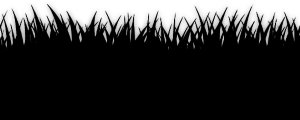
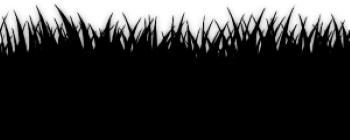
Rain + glow particle systems implemented
player walk cycle bug fixed

assets for first level present implemented, no past in yet

Changed region(s): [[0.0, 0.025, 1.0, 0.4], [0.63, 0.075, 0.66, 0.125]]

diff --git a/js/States/DepressionLevel.js b/js/States/DepressionLevel.js
@@ -1,4 +1,6 @@
-var player; var grass;
+var player; 
+var grass; 
+
 var DepressionLevel = function() { 
 	// platforms group
 	var platforms;
@@ -33,70 +35,33 @@ DepressionLevel.prototype = {
         );
 
         //LEVEL ELEMENTS
-        var car = this.game.add.sprite(-100, game.world.height - 210, 'levelOneSprites', 'Night_Car');
+        var car = this.game.add.sprite(-100, game.world.height - 230, 'levelOneSprites', 'Night_Car');
 
         var house = this.game.add.sprite(game.world.width - 393, 0, 'levelOneSprites', 'Night_House');
+
+        //Tree with swing 
+        var tree = this.game.add.sprite(100, 0, 'levelOneSprites', 'Night_Swing');
+
+        //mailbox
+        addGlow(700, game.world.height - 130, 50, 350, true);
+        var mailbox = this.game.add.sprite(650, game.world.height - 350, 'Night_Mailbox');
+        addGlow(700, game.world.height - 130, 50, 350, false);
 
         //PLAYER
         player = new Player(game, 100, 100); 
         game.add.existing(player);
-        console.log(player);
 
-        grass = this.game.add.tileSprite(0, game.world.height - 120, game.world.width, 120, 
-            'levelOneSprites', 'Night_Grass');
+        //grass
+        grass = this.game.add.tileSprite(0, game.world.height - 140, game.world.width, 140, 'Night_Grass');
     	game.physics.arcade.enable(grass);
-    	//grass.enableBody = true;
 		grass.body.immovable = true; 
     	grass.body.setSize(grass.body.width, grass.body.height - 10, 0, 50);
 
-		// // player physics properties
-		// player = game.add.sprite(this.playerX, this.playerY, 'player_animation');
-		// player.anchor.x = 0.5;
-		// player.scale.x = this.facing;
-		// game.physics.arcade.enable(player);
-		// player.body.gravity.y = 600;
-		// // player.body.collideWorldBounds = true;
-		// player.animations.add('stand', [8], 6, true);
-		// player.animations.add('walk', [0, 1, 2, 3, 4, 5, 6, 7], 6, true);
-		// player.animations.add('jump', [9], 12, true);
-		// 		console.log(player.body.width + " " + player.body.height);
-		// player.body.setSize(45, 266, 65, 0);
-    
-	 //    // create platforms group
-  //       platforms = game.add.group();
-  //       platforms.enableBody = true;
-
-	 //    // create the ground
-	 //    ground = platforms.create(0, game.world.height - 76, 'grass_ground_sepia');
-		// ground.body.immovable = true; 
-		// ground.body.setSize(ground.body.width, ground.body.height - 10, 0, 50);
-
-		// //this is just to fill in the gap btwn the ledge and the ground
-	 //  	ledge = platforms.create(300, 250, 'grass_platform_sepia');
-		// ledge.body.immovable = true;
-		// ledge.angle = 5;
-		// ledge.body.setSize(ledge.body.width, ledge.body.height - 10, 50, 50);
-
-	 //    // create ledge
-	 //  	ledge = platforms.create(300, 150, 'grass_platform_sepia');
-		// ledge.body.immovable = true;
-		// ledge.body.setSize(ledge.body.width, ledge.body.height - 10, 50, 50);
-
-	 //    rock = game.add.sprite(500, 100, 'rock_sepia');
-	 //    rock.enableBody = true;
+    	//rain
+    	addRain();
 
 	 //    // create fade in rect
 	 //    fadeInRect = game.add.sprite(0, 0, 'fade_in');
-
-	 //    // play standing animation
-	 //    player.animations.play('stand');
-
-	    //game.physics.arcade.enable(rock);
-	    //rock.body.bounce.y =0.2;
-
-	    //rock.body.gravity.y =1000;
-	   //rock.body.immovable = true;
-	    //rock.body.collideWorldBounds = true;
 
     },
 
@@ -131,44 +96,5 @@ DepressionLevel.prototype = {
   //       this.playerY = player.y;
   //       this.facing = player.scale.x;
 
-  //       //-----------TEMPORARY CONTROLS---------------------//
-	 //    // set player velocity
-	 //    player.body.velocity.x = 0;
-
-	 //    game.physics.arcade.collide(rock, platforms);
-	 //    game.physics.arcade.collide(rock, player);
-
-	 //    if (game.input.keyboard.isDown(Phaser.Keyboard.LEFT)) // move left
-	 //    {
-	 //        player.body.velocity.x = -100;
-	 //        player.animations.play('walk');
-	 //        player.scale.x = -1;
-	 //    }
-
-	 // 	else if (game.input.keyboard.isDown(Phaser.Keyboard.RIGHT)) // move right
-	 //    {
-	 //        player.body.velocity.x = 100;
-	 //       	player.animations.play('walk');
-	 //       	player.scale.x = 1;
-	 //    }
-
-	 //    else
-	 //    {
-	 //    	player.animations.play('stand'); // stand
-	 //    }
-	    
-	 //    if (game.input.keyboard.isDown(Phaser.Keyboard.UP) && player.body.touching.down) // jump if player is touching the ground
-	 //    {
-	 //        player.body.velocity.y =  -450;
-		// }
-
-	 //    if (!player.body.touching.down) // player jump animation
-	 //    {
-	 //    	player.animations.play('jump');
-	 //    }
-
-
-
-	    //------------------------------------------------//
     }
 }

diff --git a/js/Functions/Rain.js b/js/Functions/Rain.js
@@ -1,0 +1,37 @@
+//from: https://www.joshmorony.com/how-to-add-weather-effects-in-phaser-games/
+
+function addRain() {
+
+        let rainParticle = this.game.add.bitmapData(15, 110);
+
+        rainParticle.ctx.rect(0, 0, 15, 110);
+        rainParticle.ctx.fillStyle = '#9cc9de';
+        rainParticle.ctx.fill();
+
+        this.emitter = this.game.add.emitter(this.game.world.centerX-130, -300, 400);
+
+        this.emitter.width = this.game.world.width;
+        let area = new Phaser.Rectangle(0, 0, game.world.width, 100); //from nathan bless
+		this.emitter.area = area;
+
+
+        this.emitter.makeParticles(rainParticle);
+        this.emitter.angle = 10;
+        this.emitter.alpha = .3; 
+
+        this.emitter.minParticleScale = 0.2;
+        this.emitter.maxParticleScale = 0.3;
+
+        this.emitter.setYSpeed(2000, 2000);
+        this.emitter.setXSpeed(-5, -5);
+
+        this.emitter.minRotation = 0;
+        this.emitter.maxRotation = 0;
+
+        this.emitter.start(false, 330, 5, 0);
+
+}
+
+function removeRain() {
+        this.emitter.kill();
+}

diff --git a/js/Functions/Glow.js b/js/Functions/Glow.js
@@ -1,0 +1,30 @@
+//define spawn rectangle and if the glow is behind or in front of the object
+function addGlow(x, y, width, height, behind) {
+
+    emitter = game.add.emitter(game.world.centerX, 500, 200);
+
+    emitter.makeParticles('corona');
+
+
+        this.emitter = this.game.add.emitter(x, y);
+
+        let area = new Phaser.Rectangle(x, y, width, height); //from nathan bless
+        this.emitter.area = area;
+
+        this.emitter.makeParticles('corona');
+        this.emitter.setAlpha(0.5, 0, 500); //min, max, how long to go from min --> max 
+        this.emitter.setScale(1, .2, 1, .2, 100); //min x, max x, min / max y,, rate min --> max
+
+        emitter.gravity = -50;
+
+        this.emitter.minRotation = 0;
+        this.emitter.maxRotation = 0;
+
+        if (behind)
+                this.emitter.start(false, 600, 500);
+        else {
+                this.emitter.setAlpha(0.3, 0, 500);
+                this.emitter.setScale(0.3, .1, 0.3, 0.1, 100);
+                this.emitter.start(false, 600, 500)
+        }
+}

diff --git a/js/Prefab/Player.js b/js/Prefab/Player.js
@@ -24,17 +24,17 @@ Player.prototype.update = function() {
 
     cursors = game.input.keyboard.createCursorKeys();//to make the player move by using keyboard
 
-    console.log("hahaha");
     //---------MOVEMENT----------------//
     player.body.velocity.x = 0;
     //block.body.velocity.x = 0;
     if (cursors.left.isDown){//move to left
         player.body.velocity.x = -150;
         player.animations.play('walk');
+        console.log(player);
         player.scale.x = -1;
     }
 
-    if (cursors.right.isDown){
+    else if (cursors.right.isDown){
         player.body.velocity.x =150;//move to right
         player.animations.play('walk');
         player.scale.x = 1;

diff --git a/js/States/Load.js b/js/States/Load.js
@@ -10,6 +10,12 @@ Load.prototype= {
         //background
         game.load.atlasJSONHash('levelOneSprites', 'assets/img/LevelOne.png','assets/img/LevelOne.json');
 
+        //fixed sizing issues, add to atlas later
+        game.load.image('Night_Grass' , 'assets/img/new/Night_Grass.png');
+        game.load.image('Night_Mailbox' , 'assets/img/new/Night_Mailbox.png');
+        
+        //Temp 
+        game.load.image('corona', 'assets/img/temp/blue.png');
 		game.load.image('fade_in', 'assets/img/temp/fade_in.png');
 		switchKey = game.input.keyboard.addKey(Phaser.Keyboard.E);
     },

diff --git a/index.html b/index.html
@@ -13,6 +13,8 @@
 
 	<script type="text/javascript" src="js/Prefab/Player.js"></script>
 	<script type="text/javascript" src="js/Functions/Switch.js"></script>
+	<script type="text/javascript" src="js/Functions/Rain.js"></script>
+	<script type="text/javascript" src="js/Functions/Glow.js"></script>
 
 	<script type="text/javascript" src="js/States/DepressionLevel.js"></script>
 
